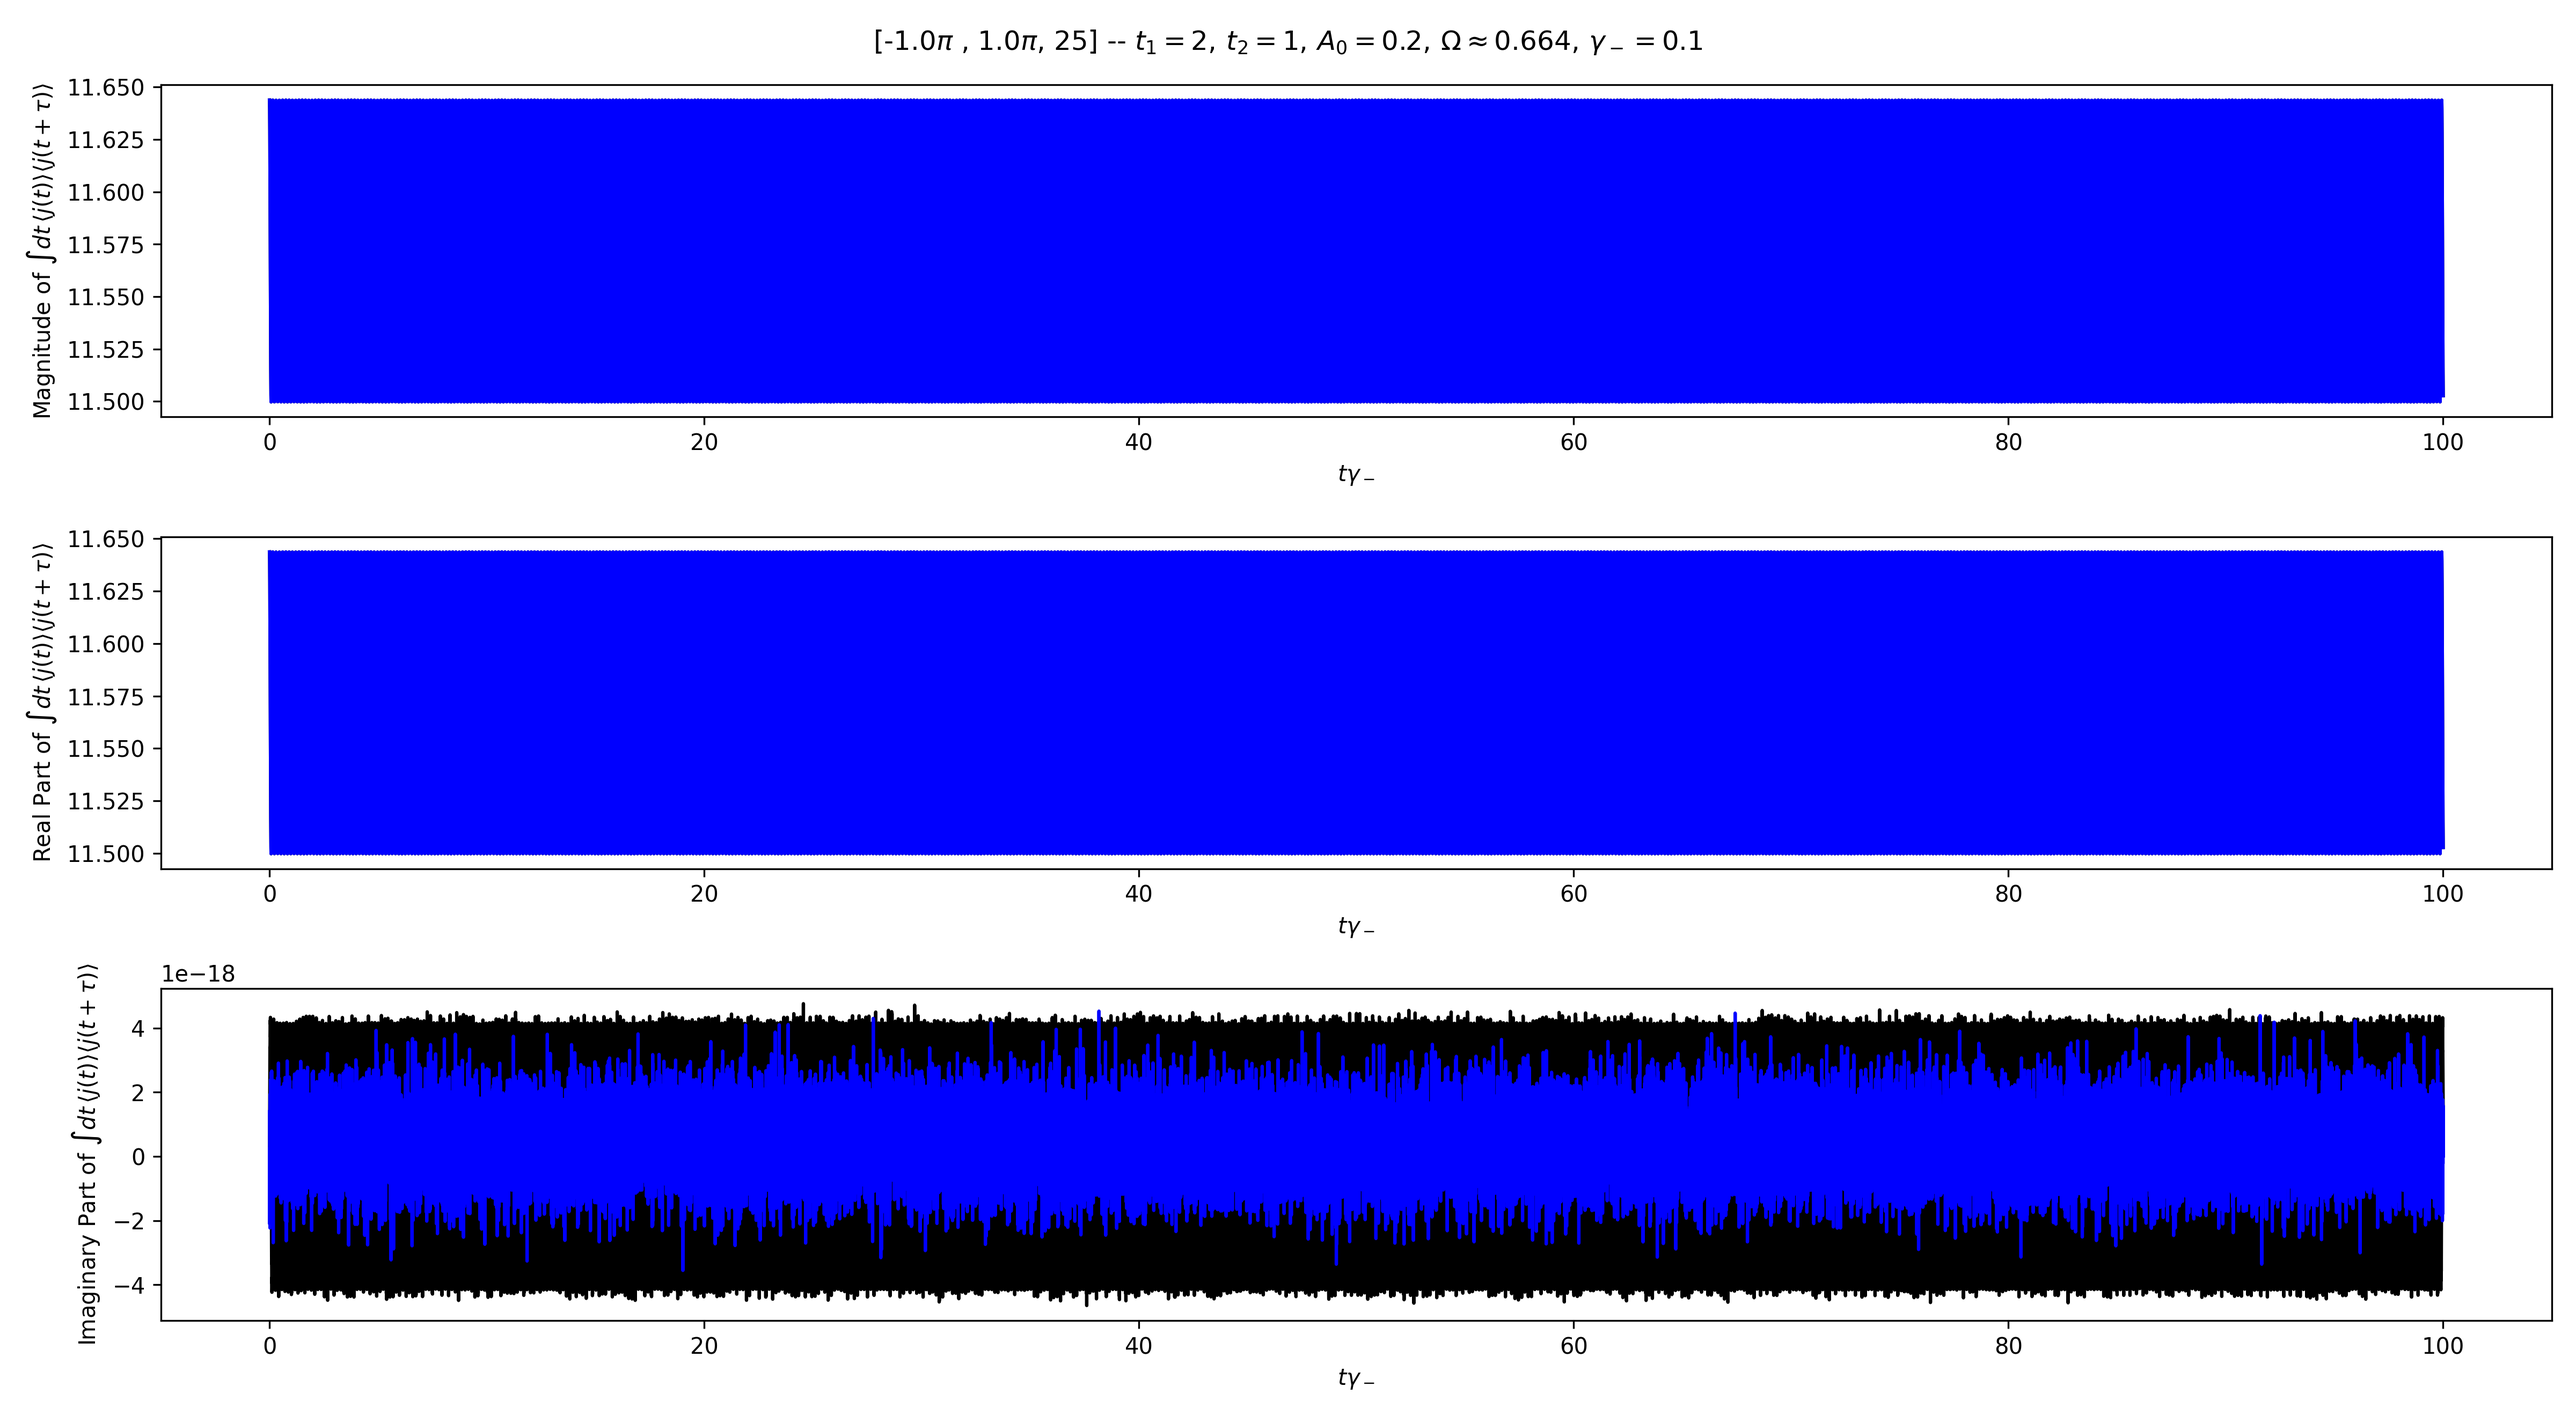
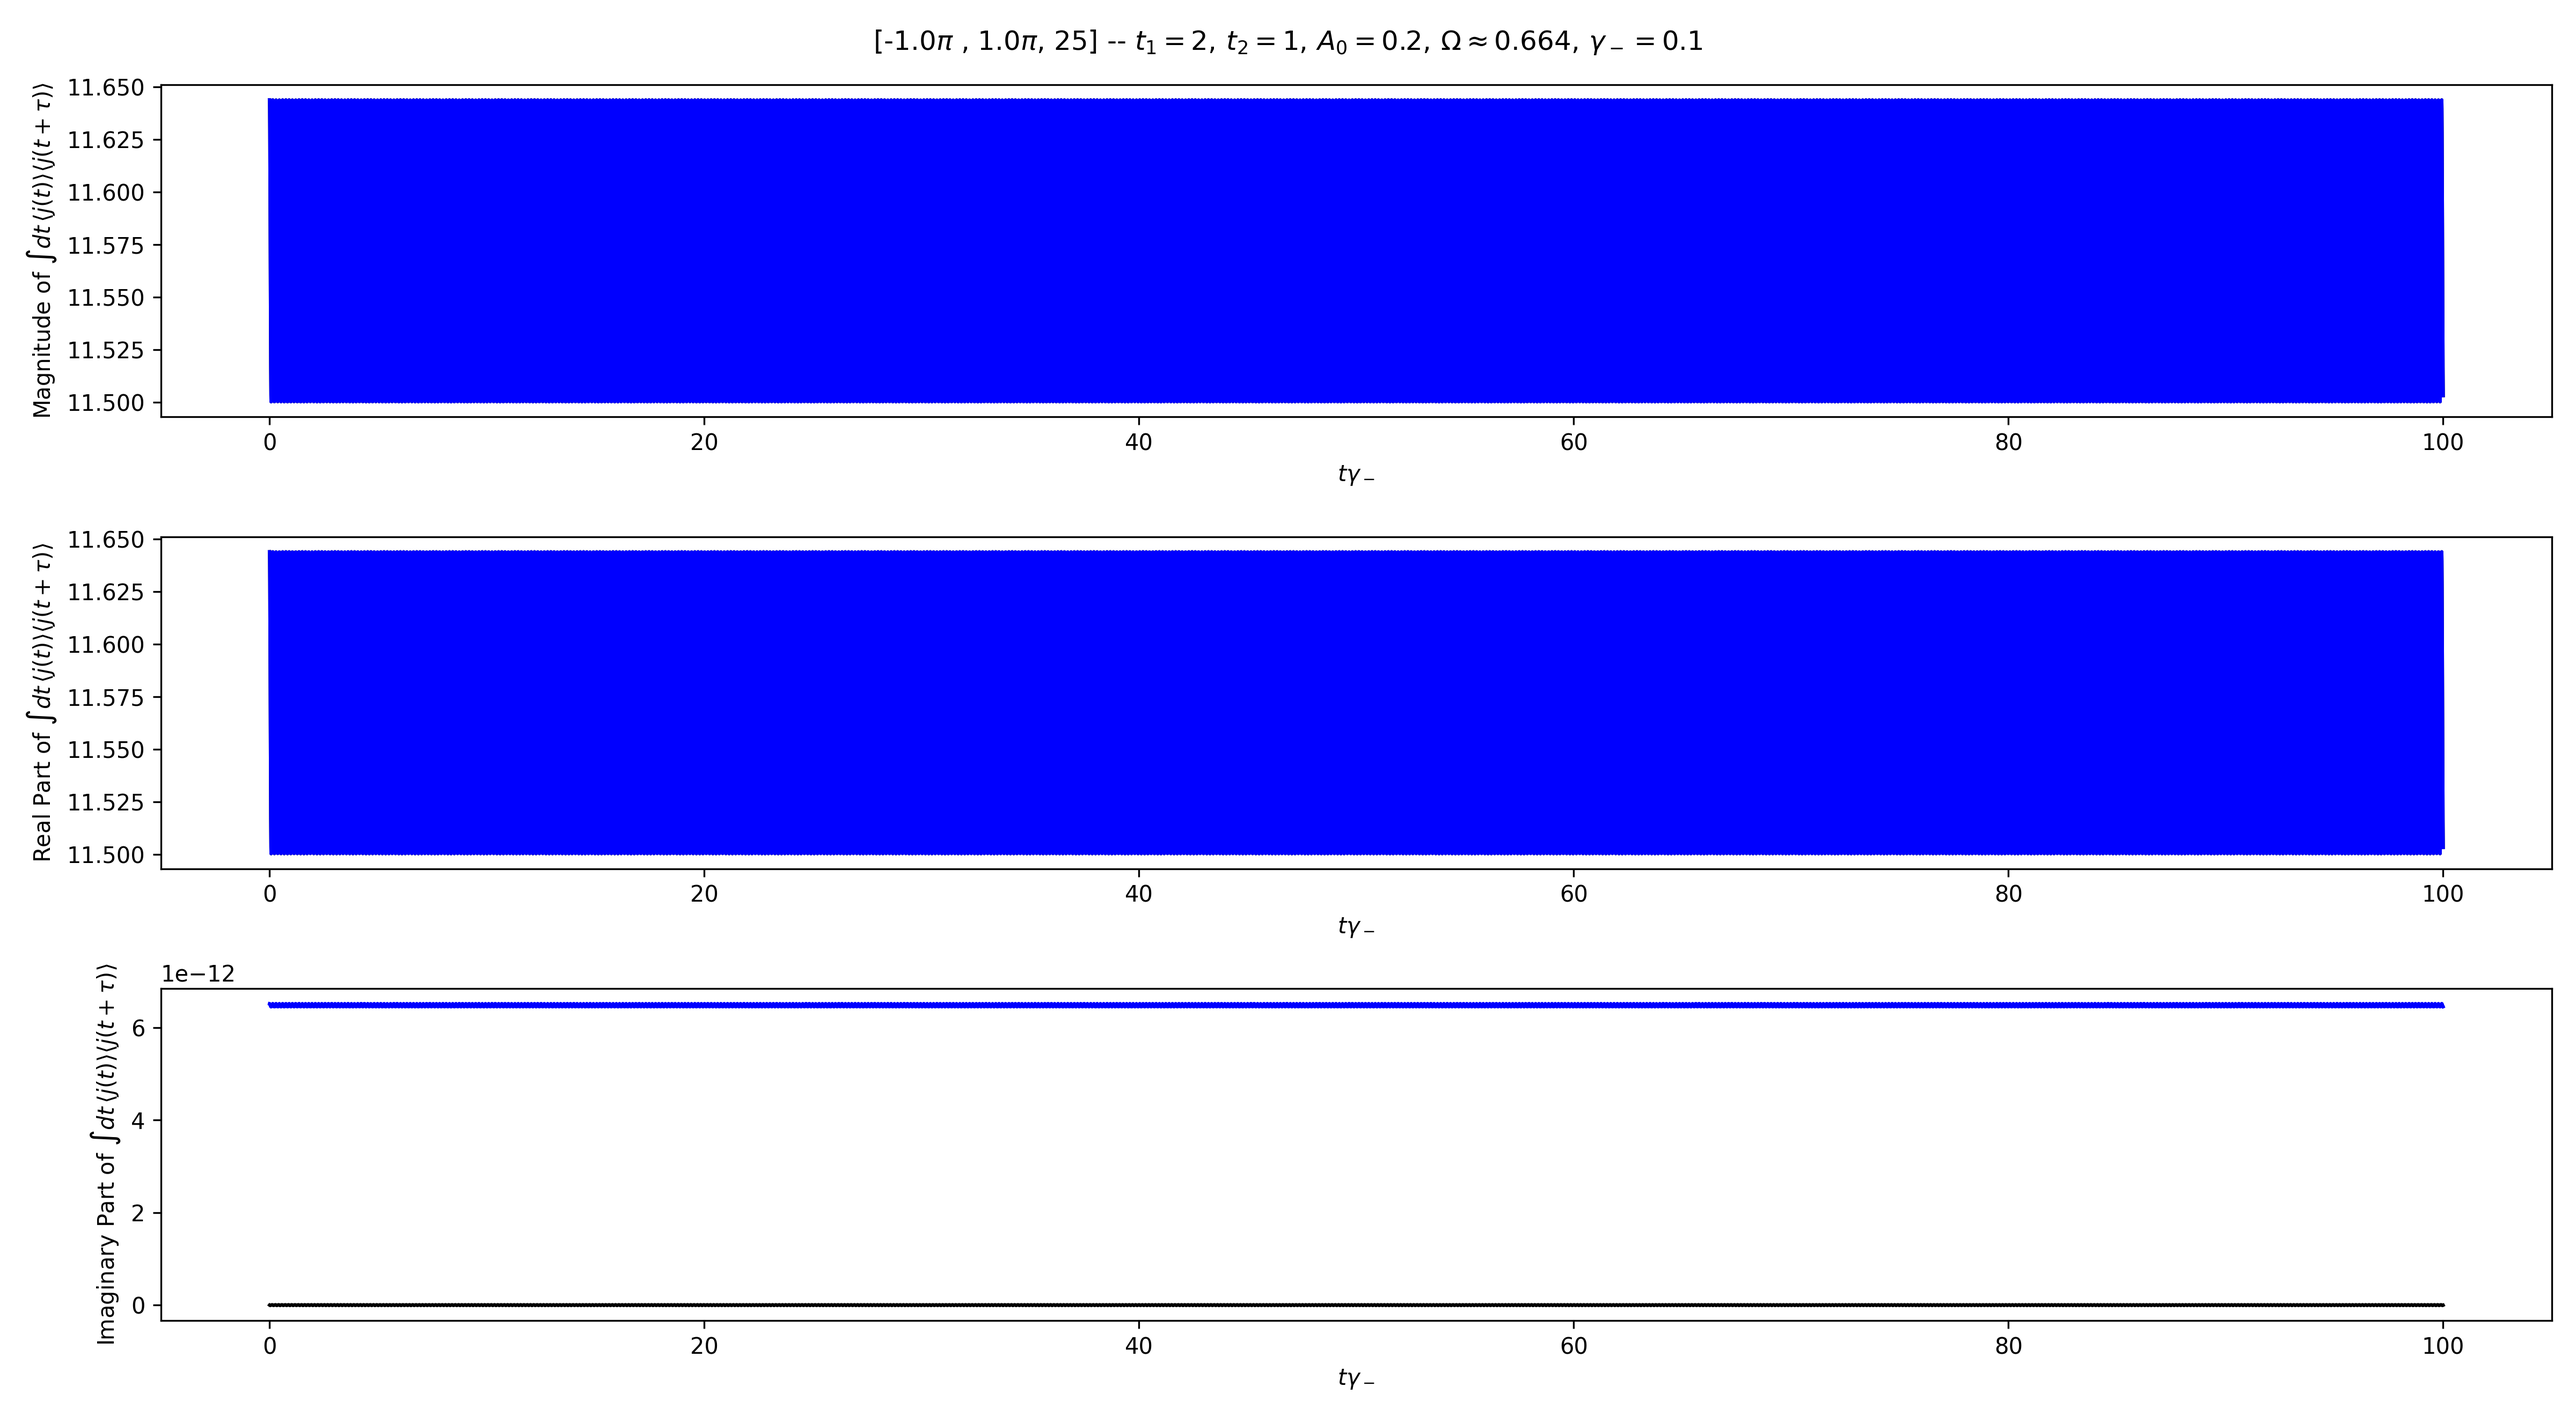
Turned off the profiler.

Changed region(s): [[0.0938, 0.6833, 0.9688, 0.9318], [0.0312, 0.7144, 0.0625, 0.9318]]

diff --git a/1d-ssh-plotting.py b/1d-ssh-plotting.py
@@ -5,7 +5,7 @@ numK, numT = 25, 10
 sim = SSHSimulation.Load(f"simulation-instances/numK: {numK}, numT: {numT}.pkl.gz")
 vis = SSHVisualiser(sim, f"plots/numK: {numK}, numT: {numT}")
 
-# k = sim.momentums[2]
+k = sim.momentums[2]
 # for k in sim.momentums:
 # vis.PlotSingleTimeCorrelations(k,
 #                             saveFigs = True,
@@ -53,9 +53,9 @@ vis = SSHVisualiser(sim, f"plots/numK: {numK}, numT: {numT}")
 
 # vis.PlotIntegratedDoubleTimeCurrent(format='product',
 #                                     saveFigs = True,
-#                                     show = False,
+#                                     show = True,
 #                                     overplotNumericalProduct = True
-                                    # )
+#                                     )
 
 # vis.PlotCurrentProductDifference(saveFigs = True,
 #                                  show = True
@@ -63,21 +63,21 @@ vis = SSHVisualiser(sim, f"plots/numK: {numK}, numT: {numT}")
 
 # # $\int dt\, \langle j(t) j (t + \tau) \rangle - \langle j(t) \rangle \langle j(t + \tau) \rangle$
 
-vis.PlotIntegratedDoubleTimeCurrent(format='connected',
-                                    saveFigs = True,
-                                    show = True
-                                    # xLim = (95, 100),
-                                    # yLim = (-5e-9, 5e-9)
-                                    )
+# vis.PlotIntegratedDoubleTimeCurrent(format='connected',
+#                                     saveFigs = True,
+#                                     show = True,
+#                                     xLim = (95, 100),
+#                                     yLim = (-2e-10, 2e-10)
+#                                     )
 
 # vis.PlotConnectedCurrentTerms(saveFigs = True,
 #                               show = False,
 #                               yLim = None
 #                               )
 
-vis.PlotConnectedCurrentFFT(saveFigs = True,
-                            show = True
-                            )
+# vis.PlotConnectedCurrentFFT(saveFigs = True,
+#                             show = True
+#                             )
 
 # vis.PlotHarmonics(saveFigs = True,
 #                   show = True

diff --git a/SSHModel/Profiler.py b/SSHModel/Profiler.py
@@ -4,7 +4,7 @@ import os
 import pandas as pd
 
 # Global variable determining whether the process is enabled.
-PROFILING_ENABLED = True
+PROFILING_ENABLED = False
 
 @dataclass
 class ProfileRecord:
@@ -83,6 +83,9 @@ class SSHProfiler:
         Measures the execution time of a function and stores it to a dataset
         for analysis.
         """
+
+        if not PROFILING_ENABLED:
+            return f
 
         # Wrapping function takes self as an argument, since we only call
         # profiler on instance methods.

diff --git a/1d-ssh-model.py b/1d-ssh-model.py
@@ -61,4 +61,4 @@ if __name__ == "__main__":
 
     sim.Save("simulation-instances")
     # sim.ExportAllRecords('simulation-instances')
-    sim.ExportRecordSummary('simulation-instances')
+    # sim.ExportRecordSummary('simulation-instances')
